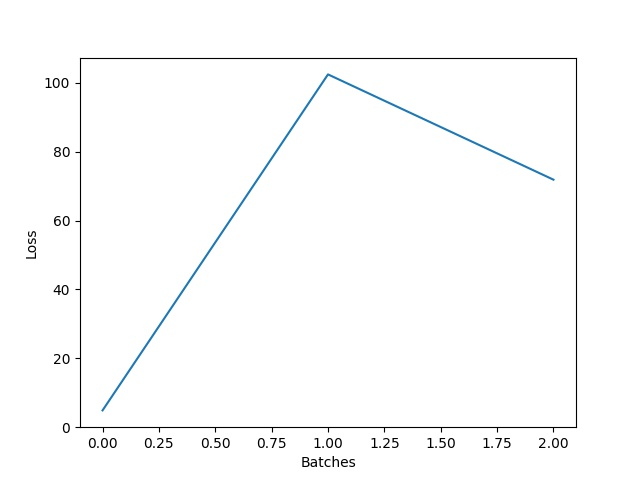
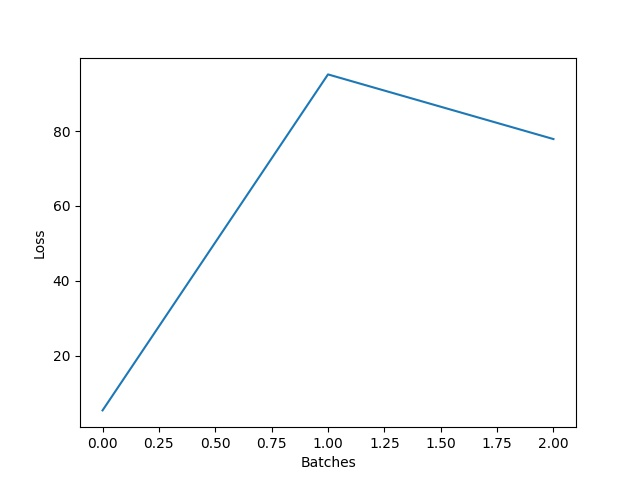
set correct device for remove and retrain

diff --git a/remove_and_retrain.py b/remove_and_retrain.py
@@ -19,6 +19,9 @@ import matplotlib.pyplot as plt
 PATH = os.path.dirname(os.path.abspath(__file__)) + '/'
 data_PATH= PATH + 'dataset/'
 
+torch.backends.cudnn.deterministic = True
+torch.backends.cudnn.benchmark = False
+
 def train(data_loader, model, use_saliency=False, \
           k_most_salient=0, saliency_method=None, saliency_method_name=None):
     learning_rate = ARGS.initial_learning_rate
@@ -29,12 +32,16 @@ def train(data_loader, model, use_saliency=False, \
     for step, (batch_inputs, batch_targets) in enumerate(data_loader):
         batch_inputs, batch_targets = batch_inputs.to(ARGS.device), batch_targets.to(ARGS.device)
         if use_saliency:
+            batch_inputs = batch_inputs.detach()
             saliency_map = saliency_method.saliency(batch_inputs)
             data = remove_salient_pixels(batch_inputs, saliency_map, num_pixels=k_most_salient, most_salient=ARGS.most_salient)
         else:
             data = batch_inputs
+        
         data.requires_grad = True
-
+        data = data.to(ARGS.device)
+        batch_targets = batch_targets.to(ARGS.device)
+        
         output = model.forward(data)
         loss = criterion(output, batch_targets)
         accuracy = float(sum(batch_targets == torch.argmax(output, 1))) / float(ARGS.batch_size)
@@ -76,6 +83,7 @@ def train(data_loader, model, use_saliency=False, \
 def get_cifar_ready_resnet():
     model = resnet18(pretrained=True)
     model.fc = torch.nn.Linear(512, 100)
+    model = model.to(ARGS.device)
     return model
 
 
@@ -83,13 +91,13 @@ def remove_and_retrain(data_loader):
     initial_model = get_cifar_ready_resnet()
     initial_accuracy = train(data_loader, initial_model, use_saliency=False)
     saliency_methods = []
+    print(next(initial_model.parameters()).device)
     for grad_name in ARGS.grads:
         if grad_name == "fullgrad":
             saliency_methods += [(FullGrad(initial_model), "FullGrad")]
         elif grad_name == "simplegrad":
             saliency_methods += [(SimpleFullGrad(initial_model), "SimpleFullGrad")]
         # TODO add gradcam
-    
     total_features = 224 * 224
     accuracies = torch.zeros((len(saliency_methods), len(ARGS.k)))
     for method_idx, (saliency_method, method_name) in enumerate(saliency_methods):

diff --git a/models/resnet.py b/models/resnet.py
@@ -306,14 +306,14 @@ class ResNet(nn.Module):
         Returns the explicit biases arising 
         from BatchNorm or convolution layers.
         """
-        cuda = torch.cuda.is_available()
-        device = torch.device("cuda:0" if cuda else "cpu")
+        # cuda = torch.cuda.is_available()
+        # device = torch.device("cuda:0" if cuda else "cpu")
+        device = next(self.parameters()).device
 
         self.fullgrad_info['get_biases'] = True
         self.fullgrad_info['biases'] = [0]
 
-        #x = torch.zeros(1,3,224,224).to(device)
-        x = torch.zeros(1,3,224,224)
+        x = torch.zeros(1,3,224,224).to(device)
         _ = self.forward(x)
         self.fullgrad_info['get_biases'] = False
         return self.fullgrad_info['biases']
